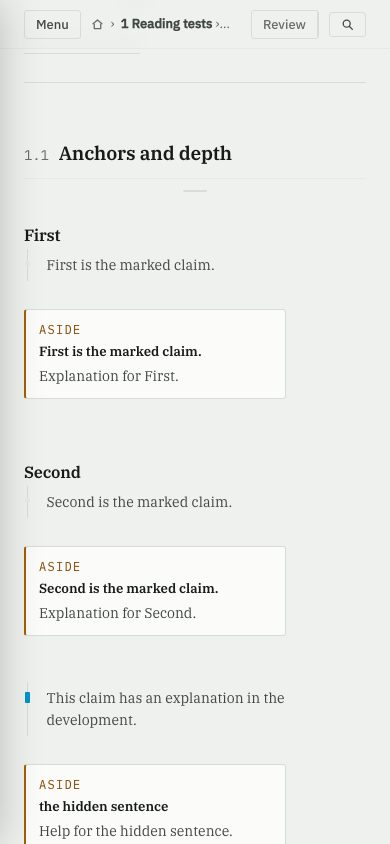
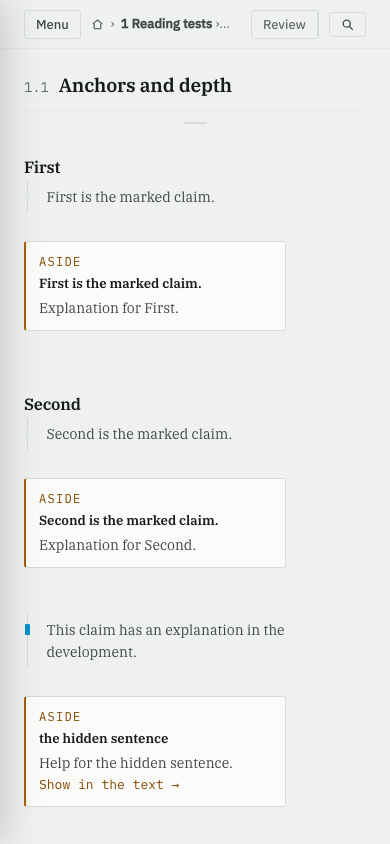
notes sync

diff --git a/src/lib/cloud.js b/src/lib/cloud.js
@@ -4,9 +4,9 @@
  * The site is public and works entirely offline: everything a reader does lives
  * in IndexedDB, and that is the whole product for everyone except the person
  * holding the secret. This file is what that one person gets — a copy of the
- * log, the courses, and the handful of settings that belong to the shelf rather
- * than to a device (src/lib/prefs.js), on the account's own backend, so a wiped
- * browser is a download rather than a loss.
+ * log, the courses, learner notes and the settings that belong to the shelf
+ * rather than to a device (src/lib/prefs.js), on the account's own backend, so
+ * a wiped browser is a download rather than a loss.
  *
  * Three properties, in the order they mattered:
  *
@@ -35,7 +35,7 @@ import { importCourse, importedIndex, filesOf, versionOf, markSynced,
 import { invalidate } from "./replay.js";
 import { purge } from "./purge.js";
 import { deriveKey, seal as sealBytes, open as openBytes, versionOfFiles } from "./seal.js";
-import { mine as myPrefs, apply as applyPrefs } from "./prefs.js";
+import { mine as myPrefs, apply as applyPrefs, isNotePref } from "./prefs.js";
 
 const SECRET = "cloud:secret";
 const CURSOR = "cloud:cursor";      /* server-assigned seq, never a clock */
@@ -256,15 +256,15 @@ export async function sync({ manual = false } = {}) {
     const sealed = await Promise.all(
       pending.map(async r => ({ id: r.id, ts: r.ts, enc: await seal(r) })));
 
-    /* Settings ride along with the rows. There are a few of them and they are
-       short, so the whole set goes every time rather than being tracked: the
-       account keeps whichever stamp is later, per key, and sending a key that
-       has not changed costs a hundred bytes and settles nothing. */
+    /* Notes and settings ride along with the rows. Each note anchor is its own
+       key, so editing one block cannot overwrite a note edited elsewhere. The
+       account keeps whichever stamp is later per key; deleted notes travel as
+       encrypted null tombstones so an offline device cannot resurrect them. */
     const sealedPrefs = await Promise.all(
       myPrefs().map(async p => ({ k: p.k, ts: p.ts, enc: await seal(p.v ?? null) })));
 
     let cursor = Number(getItem(CURSOR)) || 0;
-    let merged = 0, listing = [], pages = 0, wrote = 0, settings = 0;
+    let merged = 0, listing = [], pages = 0, wrote = 0, settings = 0, notes = false;
     /* Which courses the merged rows belong to: an open course has to be
        refolded rather than merely repainted, or it shows yesterday's schedule
        until the reader navigates away and back. */
@@ -284,7 +284,9 @@ export async function sync({ manual = false } = {}) {
         if (sealed.length) markSent(pending.map(r => r.id));
         if (dropped.length) removeItem(BIN);
         listing = res.courses || [];
-        settings = applyPrefs(await opened(res.prefs));
+        const accountPrefs = await opened(res.prefs);
+        settings = applyPrefs(accountPrefs);
+        notes = settings > 0 && accountPrefs.some(p => isNotePref(p.k));
       }
       const plain = [];
       for (const r of res.rows || []) {
@@ -308,9 +310,9 @@ export async function sync({ manual = false } = {}) {
     setItem(SEEN, JSON.stringify(listing.filter(c => c.deleted)));
     if (merged || installed.length || removed.length || settings)
       dispatchEvent(new CustomEvent("learn:synced", {
-        detail: { merged, installed, removed, settings, courses: [...touched] } }));
+        detail: { merged, installed, removed, settings, notes, courses: [...touched] } }));
 
-    return { ok: true, sent: wrote, merged, uploaded, installed, removed, settings,
+    return { ok: true, sent: wrote, merged, uploaded, installed, removed, settings, notes,
              bin: listing.filter(c => c.deleted) };
   } catch (e) {
     /* Cursors are only advanced on success, so a failure costs nothing but the

diff --git a/src/lib/prefs.js b/src/lib/prefs.js
@@ -1,13 +1,11 @@
 /* ============================================================================
- * src/lib/prefs.js — the few settings that follow the reader between devices
+ * src/lib/prefs.js — editable state that follows the reader between devices
  *
  * Almost everything the browser holds about a reader is per device on purpose:
  * where they were in a course, how deep they read it, which lane they are in.
- * Three settings are not, because they are statements about the *shelf* rather
- * than about the device looking at it — the colour a course is tinted, the
- * order the cards sit in, and which bundled ones are dismissed. A reader who
- * arranges their shelf on a laptop and then opens a phone is looking at the
- * same shelf, and it used to be someone else's.
+ * Shelf choices and learner notes are not. A reader who arranges their shelf
+ * or annotates a block on a laptop and then opens a phone is looking at the
+ * same shelf and the same notes.
  *
  * Two devices can both set the same thing, so there has to be a rule. The rule
  * is the latest write wins, per key: each change is stamped when it is made and
@@ -30,11 +28,15 @@ import { getItem, setItem, removeItem, keys } from "./store.js";
    never travels: it is this device's account of what it did. */
 const STAMPS = "pref:stamps";
 
-/* What travels. A short list on purpose — every addition is a thing that can
-   arrive from another device and surprise someone. */
-const SYNCED = [/^hue:/, /^order:v1$/, /^hidden:v1$/];
+/* What travels. Attempt drafts deliberately do not: they share the note prefix
+   for historical reasons, but `@attempt` is not a learner note. The saved key
+   is the compatibility shape used by the first saved-block implementation. */
+const NOTE = /^note:[\w-]{1,64}:s\d+(?:-\d+)?(?:#\d+)?$/;
+const SAVED = /^saved:[\w-]{1,64}$/;
+const SYNCED = [/^hue:/, /^order:v1$/, /^hidden:v1$/, NOTE, SAVED];
 
 export const isPref = k => typeof k === "string" && SYNCED.some(re => re.test(k));
+export const isNotePref = k => typeof k === "string" && (NOTE.test(k) || SAVED.test(k));
 
 const stamps = () => { try { return JSON.parse(getItem(STAMPS)) || {}; } catch { return {}; } };
 const write = s => setItem(STAMPS, JSON.stringify(s));
@@ -48,7 +50,7 @@ const write = s => setItem(STAMPS, JSON.stringify(s));
  * because a stamp of 0 can never be greater than a stamp of 0. */
 const tsOf = (s, k) => (s[k] != null ? Number(s[k]) : (getItem(k) != null ? 1 : 0));
 
-/** Set one, and record when. The three modules that own these keys call this
+/** Set one, and record when. The modules that own these keys call this
  *  rather than store.setItem, so a change cannot be made without a stamp. */
 export function setPref(k, v) {
   if (!isPref(k)) throw new Error(`${k} is not a synced preference`);

diff --git a/functions/api/sync.js b/functions/api/sync.js
@@ -18,15 +18,16 @@ import { json, guard, body, purgeBin, okId } from "./_shared.js";
 
 const MAX_ROWS = 2000;      /* per request, in and out */
 const PAGE = 500;           /* rows returned before the client is told to come back */
-/* Settings are a handful of short strings — one per course plus two — so they
-   ride along on every sync rather than paging. The caps are there to keep that
-   true for a caller that decides otherwise. */
-const MAX_PREFS = 500;
-const MAX_PREF_BYTES = 8 * 1024;
+/* Settings and one encrypted value per note anchor ride along with a sync. */
+const MAX_PREFS = 2000;
+/* Notes can contain pasted explanations and Markdown. Eight kilobytes was
+   enough for a colour or card order but silently discarded ordinary longer
+   notes once encryption/base64 overhead was added. */
+const MAX_PREF_BYTES = 128 * 1024;
 
-/* A preference key is a name, not an id: `hue:<course>`, `order:v1`. Same
-   reasoning as okId — it is used in a key and it comes from the network. */
-const okKey = k => typeof k === "string" && /^[\w:.-]{1,80}$/.test(k);
+/* `#` identifies a block within a subsection note. The key is still data from
+   the network, so path separators and every other punctuation mark stay out. */
+const okKey = k => typeof k === "string" && /^[\w:.#-]{1,160}$/.test(k);
 
 export async function onRequestPost(context) {
   const stop = guard(context.request, context.env);
@@ -78,9 +79,9 @@ export async function onRequestPost(context) {
       "UPDATE courses SET deleted_at = NULL, updated_at = ? WHERE id = ?").bind(now, id));
   }
 
-  /* ----------------------------------------------------------- settings --
-     The colour a course wears, the order of the shelf, the bundled courses
-     dismissed from it. Per key rather than one blob, and the later stamp wins:
+  /* ----------------------------------------------- notes and settings --
+     Learner notes and shelf preferences. Per key rather than one blob, and
+     the later stamp wins:
      the `WHERE` on the upsert is what makes a device carrying a week-old
      opinion unable to overwrite a newer one. The client decides what a stamp
      means (src/lib/prefs.js); the server only compares them. */
@@ -117,8 +118,8 @@ export async function onRequestPost(context) {
   const listing = await db.prepare(
     "SELECT id, version, bytes, deleted_at FROM courses ORDER BY id").all();
 
-  /* And the settings, whole, for the same reason: a device cannot act on a key
-     it is never told about, and the whole table is a few hundred bytes. */
+  /* And the notes/settings, whole, for the same reason: a device cannot act on
+     a key it is never told about. */
   const settings = await db.prepare("SELECT k, ts, enc FROM prefs ORDER BY k").all();
 
   return json({

diff --git a/src/lib/notes.js b/src/lib/notes.js
@@ -6,6 +6,7 @@
  * text does not. Notes are the learner's, so they are visually distinct from
  * course content and never mixed into it. */
 import { getItem, setItem, removeItem, keys } from "./store.js";
+import { setPref, dropPref } from "./prefs.js";
 
 /** `anchor` is a subsection id, optionally suffixed with #<block index> */
 const key = (cid, anchor) => `note:${cid}:${anchor}`;
@@ -21,8 +22,8 @@ const legacySaved = cid => {
 const forgetLegacySaved = (cid, anchor) => {
   const set = legacySaved(cid);
   if (!set.delete(anchor)) return;
-  if (set.size) setItem(LEGACY_SAVED(cid), JSON.stringify([...set]));
-  else removeItem(LEGACY_SAVED(cid));
+  if (set.size) setPref(LEGACY_SAVED(cid), JSON.stringify([...set]));
+  else dropPref(LEGACY_SAVED(cid));
 };
 
 /* Exactly one blank note is meaningful: it is the saved marker. Written notes
@@ -73,8 +74,8 @@ export function readNotes(cid, anchor) {
 export function writeNotes(cid, anchor, list) {
   const keep = notesOf(list);
   forgetLegacySaved(cid, anchor);
-  if (keep.length) setItem(key(cid, anchor), JSON.stringify(keep));
-  else removeItem(key(cid, anchor));
+  if (keep.length) setPref(key(cid, anchor), JSON.stringify(keep));
+  else dropPref(key(cid, anchor));
 }
 
 /* Which of a course's notes the reader has folded shut.
@@ -101,7 +102,10 @@ export function setFolded(cid, anchor, on) {
  *  lib/purge.js is the caller. */
 export function dropNotes(cid) {
   const pre = key(cid, "");
-  for (const k of keys()) if (k.startsWith(pre)) removeItem(k);
+  for (const k of keys()) if (k.startsWith(pre)) {
+    /* Attempt drafts are device-local and are not valid synced preferences. */
+    if (k.includes("@attempt")) removeItem(k); else dropPref(k);
+  }
   removeItem(FOLD(cid));
-  removeItem(LEGACY_SAVED(cid));
+  if (getItem(LEGACY_SAVED(cid)) != null) dropPref(LEGACY_SAVED(cid));
 }

diff --git a/src/components/Explore.jsx b/src/components/Explore.jsx
@@ -205,6 +205,13 @@ export default function Explore({ ctx, seed, depth: readingDepth = "notes" }) {
    as the source material instead of inventing a second collection design. */
 function Saved({ ctx, depth }) {
   const { cid, idx } = ctx;
+  const [synced, setSynced] = useState(0);
+
+  useEffect(() => {
+    const onSync = e => { if (e.detail.notes) setSynced(n => n + 1); };
+    addEventListener("learn:synced", onSync);
+    return () => removeEventListener("learn:synced", onSync);
+  }, []);
 
   const groups = useMemo(() => {
     const bySub = new Map();
@@ -221,7 +228,7 @@ function Saved({ ctx, depth }) {
       else group.items.push(entry);
     }
     return [...bySub.values()];
-  }, [cid, idx]);
+  }, [cid, idx, synced]);
 
   return (
     <div class="saved-view">

diff --git a/src/components/Notes.jsx b/src/components/Notes.jsx
@@ -58,6 +58,18 @@ export function useNotes(cid, anchor) {
     setEditing(-1); setPull(0);
   }, [cid, anchor]);
 
+  /* A manual backup can pull a newer note while this block remains mounted.
+     App-level repainting cannot replace hook state, so reload the anchor when
+     the sync reports that note records changed. */
+  useEffect(() => {
+    const onSync = e => {
+      if (!e.detail.notes || editing >= 0) return;
+      apply(anchor ? readNotes(cid, anchor) : []);
+    };
+    addEventListener("learn:synced", onSync);
+    return () => removeEventListener("learn:synced", onSync);
+  }, [cid, anchor, editing]);
+
   const later = next => {
     clearTimeout(save.current);
     save.current = setTimeout(() => writeNotes(cid, anchor, next), 400);

diff --git a/src/components/PrivacyNote.jsx b/src/components/PrivacyNote.jsx
@@ -21,8 +21,8 @@ export default function PrivacyNote() {
   return (
     <p class="lede cal-priv">
       This device backs up to your own account once a day. Your answer log, your
-      courses, and the three settings that belong to the shelf — a course's
-      colour, the order of the cards, which bundled ones you dismissed — are
+      courses, your notes and saved markers, and the settings that belong to the
+      shelf — a course's colour, card order and dismissed bundled courses — are
       encrypted in this browser first, with a key derived from your secret, so
       they can be stored there but not read there. What the backup can see is
       the shape of it: which device wrote a row, when, and how big it was.

diff --git a/src/components/CloudPanel.jsx b/src/components/CloudPanel.jsx
@@ -50,7 +50,7 @@ export default function CloudPanel({ setup = false, onChange }) {
     if (r.uploaded.length) parts.push(`backed up ${r.uploaded.length} course(s)`);
     if (r.installed.length) parts.push(`installed ${r.installed.length}`);
     if (r.removed.length) parts.push(`removed ${r.removed.length}`);
-    if (r.settings) parts.push(`took ${r.settings} setting(s)`);
+    if (r.settings) parts.push(`took ${r.settings} note/setting update(s)`);
     setMsg(parts.join(", ") + ".");
     refresh();
     onChange && onChange();
